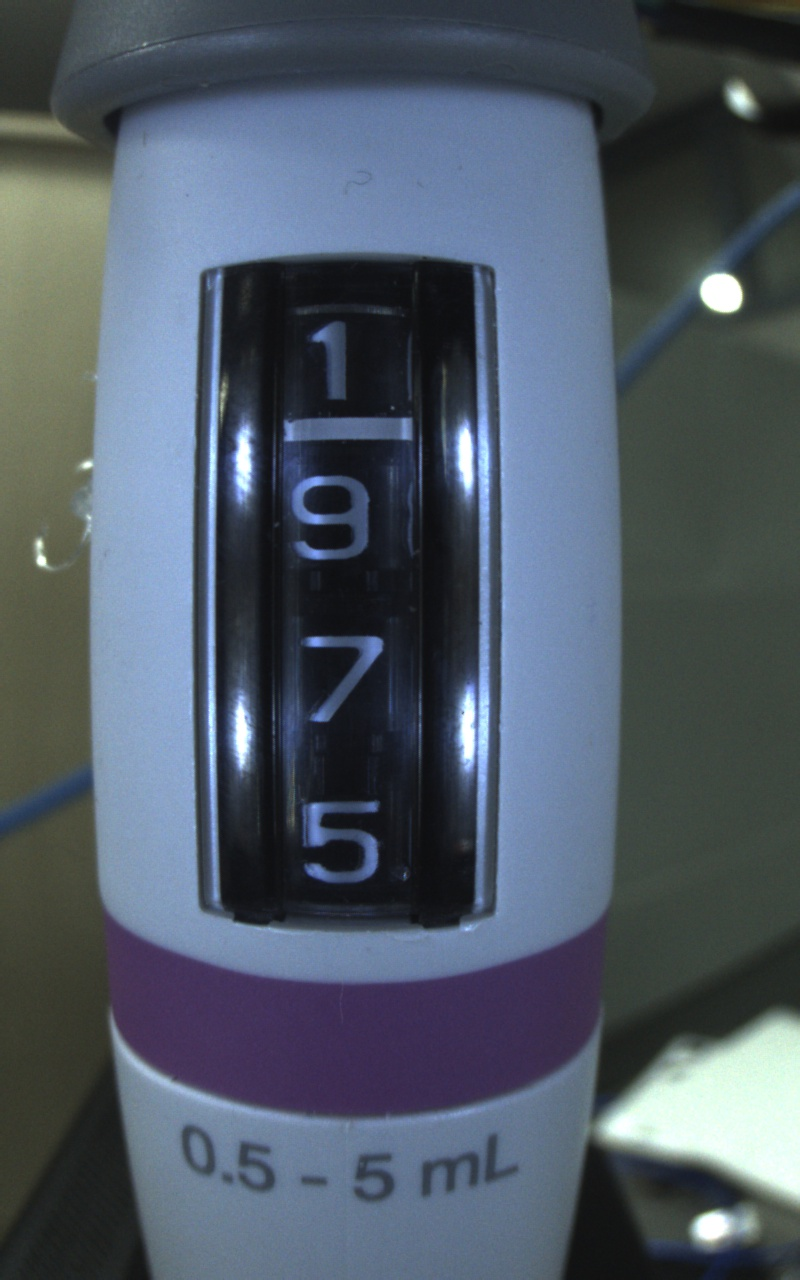
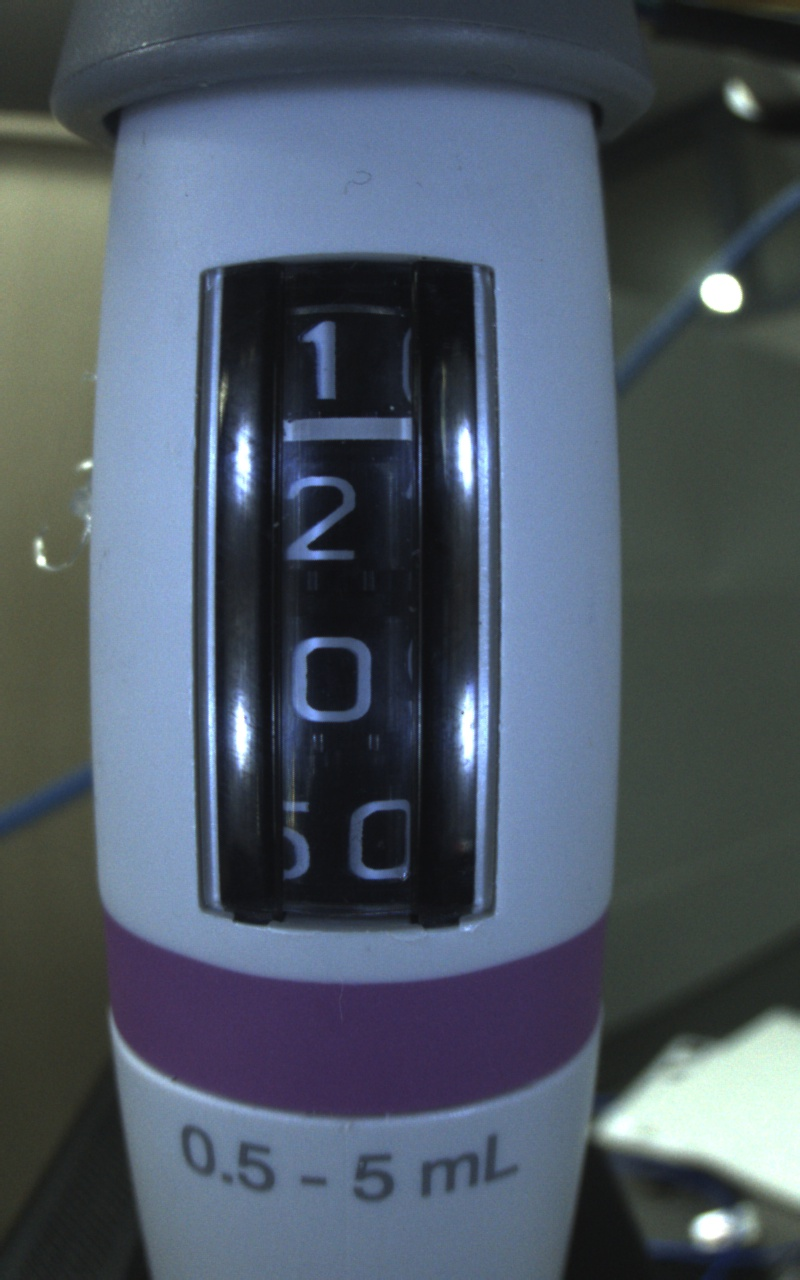
fix

diff --git a/test/single_target_test.py b/test/single_target_test.py
@@ -20,6 +20,14 @@ SETTLE_TIME = 0.7      # sec
 MAX_ITER = 60
 OCR_TIMEOUT = 20       # sec
 
+# ---------- OCR sanity check ----------
+JUMP_THRESHOLD_UL = 200     # 이전 값 대비 급변 허용 한계
+MAX_OCR_RETRY = 2           # nudge 후 재시도 횟수
+NUDGE_DUTY = 18             # 아주 약한 duty
+NUDGE_DURATION_MS = 70
+NUDGE_DIRECTION = 1         # 환경에 맞게 0/1 조정
+NUDGE_SETTLE_SEC = 0.15
+
 # ==========================================================
 # Global actuator (GUI와 동일 경로)
 # ==========================================================
@@ -32,30 +40,22 @@ def ensure_dirs():
 
 
 def ensure_volume_dc():
-    """
-    GUI PipettePanel과 동일한 DC 회전 모터 경로
-    """
     global _serial, _volume_dc
 
     if _serial is None:
         _serial = SerialController()
-
         _serial.connect()
 
     if _volume_dc is None:
         _volume_dc = VolumeDCActuator(
             serial=_serial,
-            actuator_id=0x0C,   # GUI와 동일
+            actuator_id=0x0C,
         )
 
     return _volume_dc
 
 
 def save_snapshot(order: int, value_ul: int):
-    """
-    latest_frame.jpg는 이미 OCR 기준 회전 이미지
-    그대로 복사만 한다
-    """
     fname = f"{order:04d}_{value_ul/1000:.3f}.jpg"
     dst = os.path.join(SNAP_DIR, fname)
     shutil.copy(OUTPUT_PATH, dst)
@@ -104,12 +104,6 @@ def read_ocr_volume(camera_index=0, rotate=1) -> int:
 # Motor control (GUI PipettePanel과 동일)
 # ==========================================================
 def move_motor(direction: int, duty: int, duration_ms: int):
-    """
-    GUI PipettePanel._rotary_start()와 동일한 동작
-    - run(direction, duty)
-    - duration 유지
-    - stop()
-    """
     volume_dc = ensure_volume_dc()
 
     print(
@@ -120,6 +114,52 @@ def move_motor(direction: int, duty: int, duration_ms: int):
     volume_dc.run(direction=direction, duty=duty)
     time.sleep(duration_ms / 1000.0)
     volume_dc.stop()
+
+
+# ==========================================================
+# OCR sanity wrapper (🔥 핵심 추가)
+# ==========================================================
+def read_ocr_volume_sane(
+    last_volume: int | None,
+    camera_index=0,
+    rotate=1,
+) -> int:
+    cur = read_ocr_volume(camera_index=camera_index, rotate=rotate)
+
+    if last_volume is None:
+        return cur
+
+    def is_jump(a, b):
+        return abs(a - b) >= JUMP_THRESHOLD_UL
+
+    if not is_jump(cur, last_volume):
+        return cur
+
+    print(
+        f"[OCR-WARN] jump detected: prev={last_volume} now={cur} "
+        f"(>= {JUMP_THRESHOLD_UL})"
+    )
+
+    for retry in range(MAX_OCR_RETRY):
+        print(f"[OCR-NUDGE] retry {retry+1}")
+
+        move_motor(
+            direction=NUDGE_DIRECTION,
+            duty=NUDGE_DUTY,
+            duration_ms=NUDGE_DURATION_MS,
+        )
+        time.sleep(NUDGE_SETTLE_SEC)
+
+        new_cur = read_ocr_volume(camera_index=camera_index, rotate=rotate)
+        print(f"[OCR-RETRY] value={new_cur}")
+
+        if not is_jump(new_cur, last_volume):
+            return new_cur
+
+        cur = new_cur
+
+    print("[OCR-WARN] unstable OCR → using last_volume for safety")
+    return last_volume
 
 
 # ==========================================================
@@ -137,9 +177,10 @@ def single_target_test(
 
     for step in range(MAX_ITER):
         # --------------------------------------------------
-        # 1. OCR
+        # 1. OCR (sanity-aware)
         # --------------------------------------------------
-        cur = read_ocr_volume(
+        cur = read_ocr_volume_sane(
+            last_volume=last_volume,
             camera_index=camera_index,
             rotate=rotate,
         )
@@ -165,7 +206,7 @@ def single_target_test(
             }
 
         # --------------------------------------------------
-        # 3. 제어 로직 (기존 run_to_target 동일)
+        # 3. 제어 로직
         # --------------------------------------------------
         direction = 0 if err < 0 else 1
         abs_err = abs(err)
